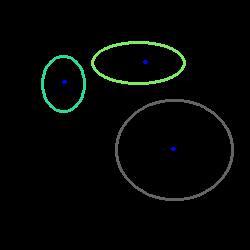
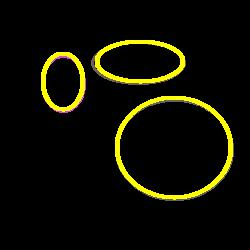
Dibuja elipses

diff --git a/Tarea_6/elipses.py b/Tarea_6/elipses.py
@@ -528,20 +528,14 @@ def boton_elipse():
     dibuja = ImageDraw.Draw(imagen_BFS)
     x, y = imagen_BFS.size
     puntos = numpy.zeros(x*y).reshape((x, y))
-    
+    centros = []
     for elipse in elipses:
         x, y = imagen_BFS.size
         puntos = numpy.zeros(x*y).reshape((x, y))
-        for i in range(2000):
-            #punto_1 = random.choice(elipse)
-            #punto_2 = random.choice(elipse)
-            #algo = randint(2,5)
-            
+        for i in range(2000):            
             tam = len(elipse)
-            rango = len(elipse)/2
             punto_1 = elipse[randint(0,tam-1)]
             punto_2 = elipse[randint(0,tam-1)]
-            #print "X = %s, Y = %s" % (str(punto_1), str(punto_2))
             
             x_1 = punto_1[0]
             y_1 = punto_1[1]
@@ -595,7 +589,6 @@ def boton_elipse():
             y_medio = (y_11+y_22) / 2
             x_medio = (x_11+x_22) / 2
                 
-            #dibuja.ellipse((x_medio-2, y_medio-2, x_medio+2, y_medio+2), fill="green")
             pixeles = imagen_BFS.load()
             
             try:
@@ -605,30 +598,18 @@ def boton_elipse():
 
                 Dx = Px - x_medio
                 Dy = Py - y_medio
-                m = Dy/Dx
-                l = 10
-
-                Mx = x_medio
-                My = y_medio
-                x0 = Mx
-                y0 = My
+                m = Dy/Dx 
+                x0 = x_medio
+                y0 = y_medio
                 while True:
                     x = x0+1
                     y = m*(x-x0)+y0
-                    #print pixeles[x, y]
-                    #time.sleep(1)
                     if pixeles[x,y] == (0, 0, 0):
-                        #print "entro"
-                        #dibuja.ellipse((x-1, y-1, x+1, y+1), fill="yellow")
                         puntos[x, y] = puntos[x, y] + 1
                         x0 = x
                         y0 = y
                     else:
                         break
-                #dibuja.line((x_1, y_1, x_2, y_2), fill="orange")
-                #dibuja.line((x_3, y_3, x_4, y_4), fill="orange")
-                #dibuja.line((x_medio, y_medio, Px, Py), fill="yellow")
-                #dibuja.line((x_medio, y_medio, x_a, y_a), fill="white")
             except:
                 pass
         max = numpy.max(puntos)
@@ -636,22 +617,52 @@ def boton_elipse():
         try:
             mayor_x = sum(index[0])/len(index[0])
             mayor_y = sum(index[1])/len(index[0])
-            dibuja.ellipse((mayor_x-2, mayor_y-2, mayor_x+2, mayor_y+2), fill="blue")
-            """
-            for i in range(len(index)):
-                for j in range(len(index[0])):
-                    try:
-                        mayor_x = index[i][j]
-                        mayor_y = index[i+1][j]
-                        dibuja.ellipse((mayor_x-2, mayor_y-2, mayor_x+2, mayor_y+2), fill="red")
-                    except:
-                        pass
-            """
-            
+            #dibuja.ellipse((mayor_x-2, mayor_y-2, mayor_x+2, mayor_y+2), fill="blue")
+            centros.append((mayor_x, mayor_y))
         except:
             mayor_x = index[0]
             mayor_y = index[1]
-            dibuja.ellipse((mayor_x-2, mayor_y-2, mayor_x+2, mayor_y+2), fill="blue")
+            #dibuja.ellipse((mayor_x-2, mayor_y-2, mayor_x+2, mayor_y+2), fill="blue")
+            centros.append((mayor_x, mayor_y))
+
+    r_x = []
+    r_y = []
+    pixeles_imagen = imagen_BFS.load()
+    for i in range(len(centros)):
+        x0 = int(centros[i][0])
+        y0 = int(centros[i][1])
+        while True:
+            y0 = y0 + 1
+            if pixeles_imagen[x0, y0] != (0, 0, 0):
+                r_y.append((x0, y0))
+                break
+
+    for i in range(len(centros)):
+        x0 = int(centros[i][0])
+        y0 = int(centros[i][1])
+        while True:
+            x0 = x0 + 1
+            if pixeles_imagen[x0, y0] != (0, 0, 0):
+                r_x.append((x0, y0))
+                break
+    Radios = []
+    for i in range(len(centros)):
+        x0 = int(centros[i][0])
+        y0 = int(centros[i][1])
+        x1 = int(r_x[i][0])
+        y1 = int(r_x[i][1])
+        x2 = int(r_y[i][0])
+        y2 = int(r_y[i][1])
+        Rx = sqrt((x1-x0)**2+(y1-y0)**2)
+        Ry = sqrt((x2-x0)**2+(y2-y0)**2)
+        #Radios.append((Rx, Ry))
+        a = 0
+        while a < 2*pi:
+            x4, y4 = x0 + Rx * sin(a), y0 + Ry * cos(a)
+            a = a + 0.01
+            dibuja.ellipse((x4-2, y4-2, x4+2, y4+2), fill="yellow")
+
+    print Radios
 
     imagen_BFS.save("paso_lineas.jpg")
             
